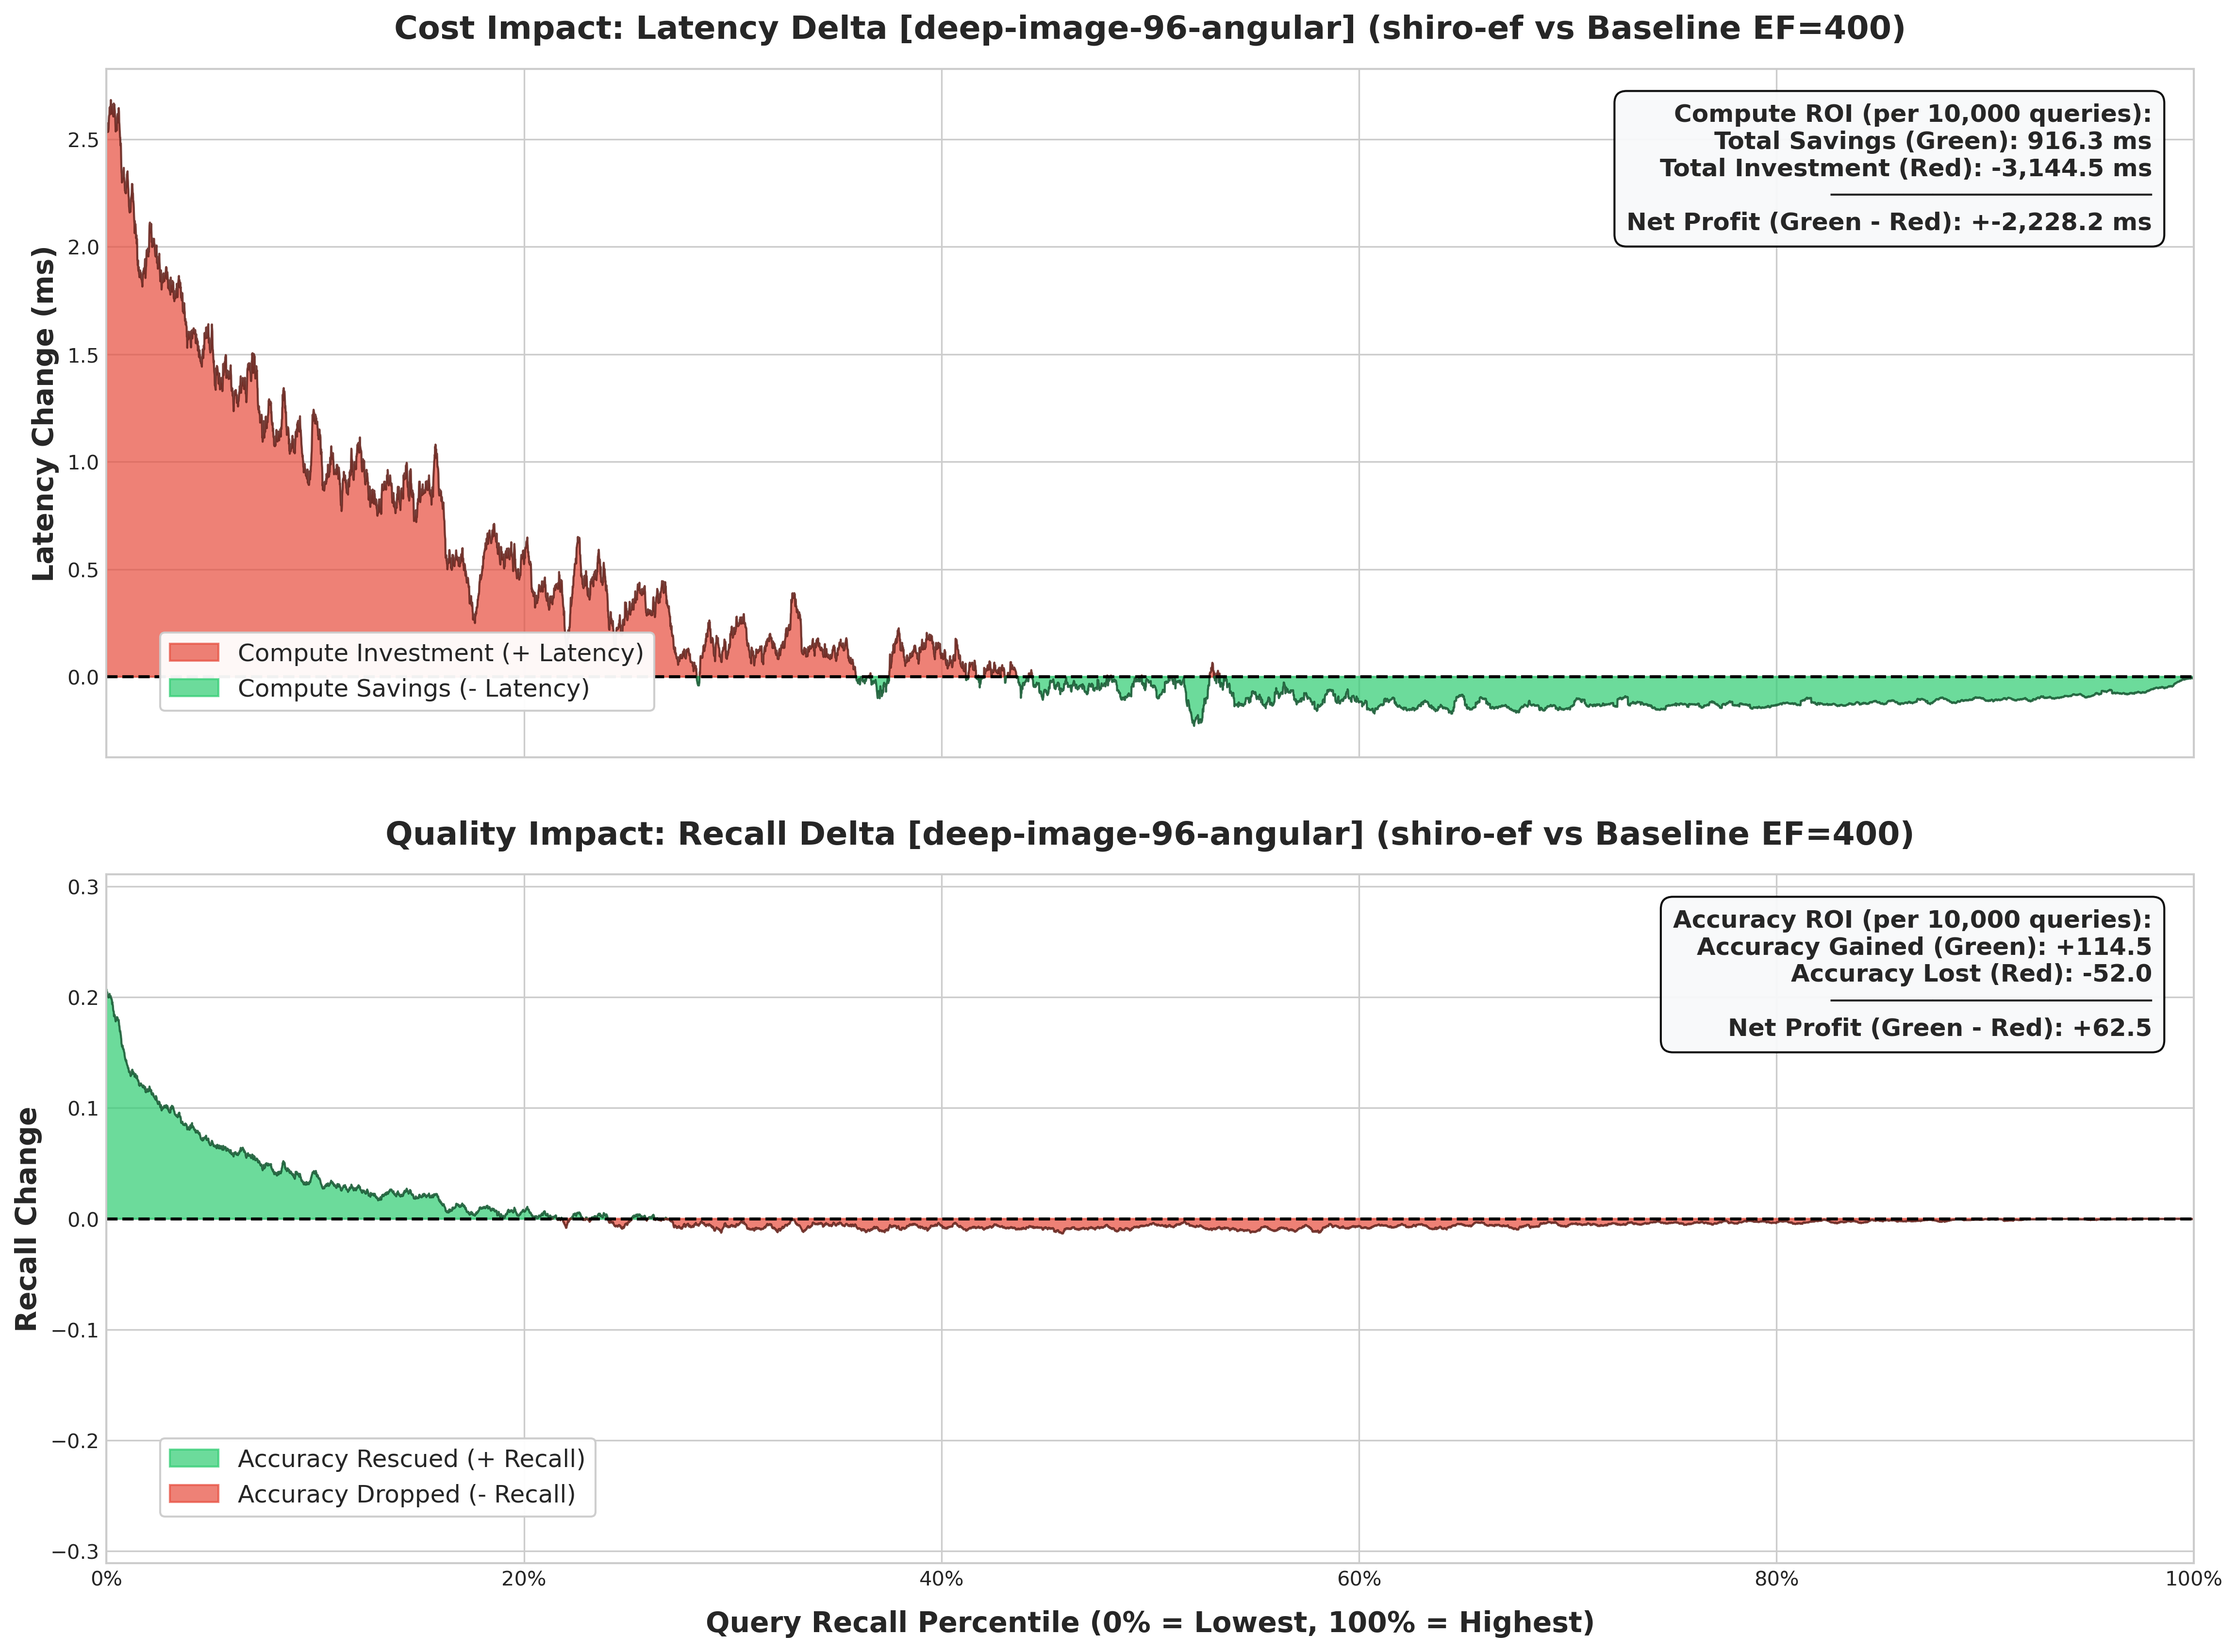
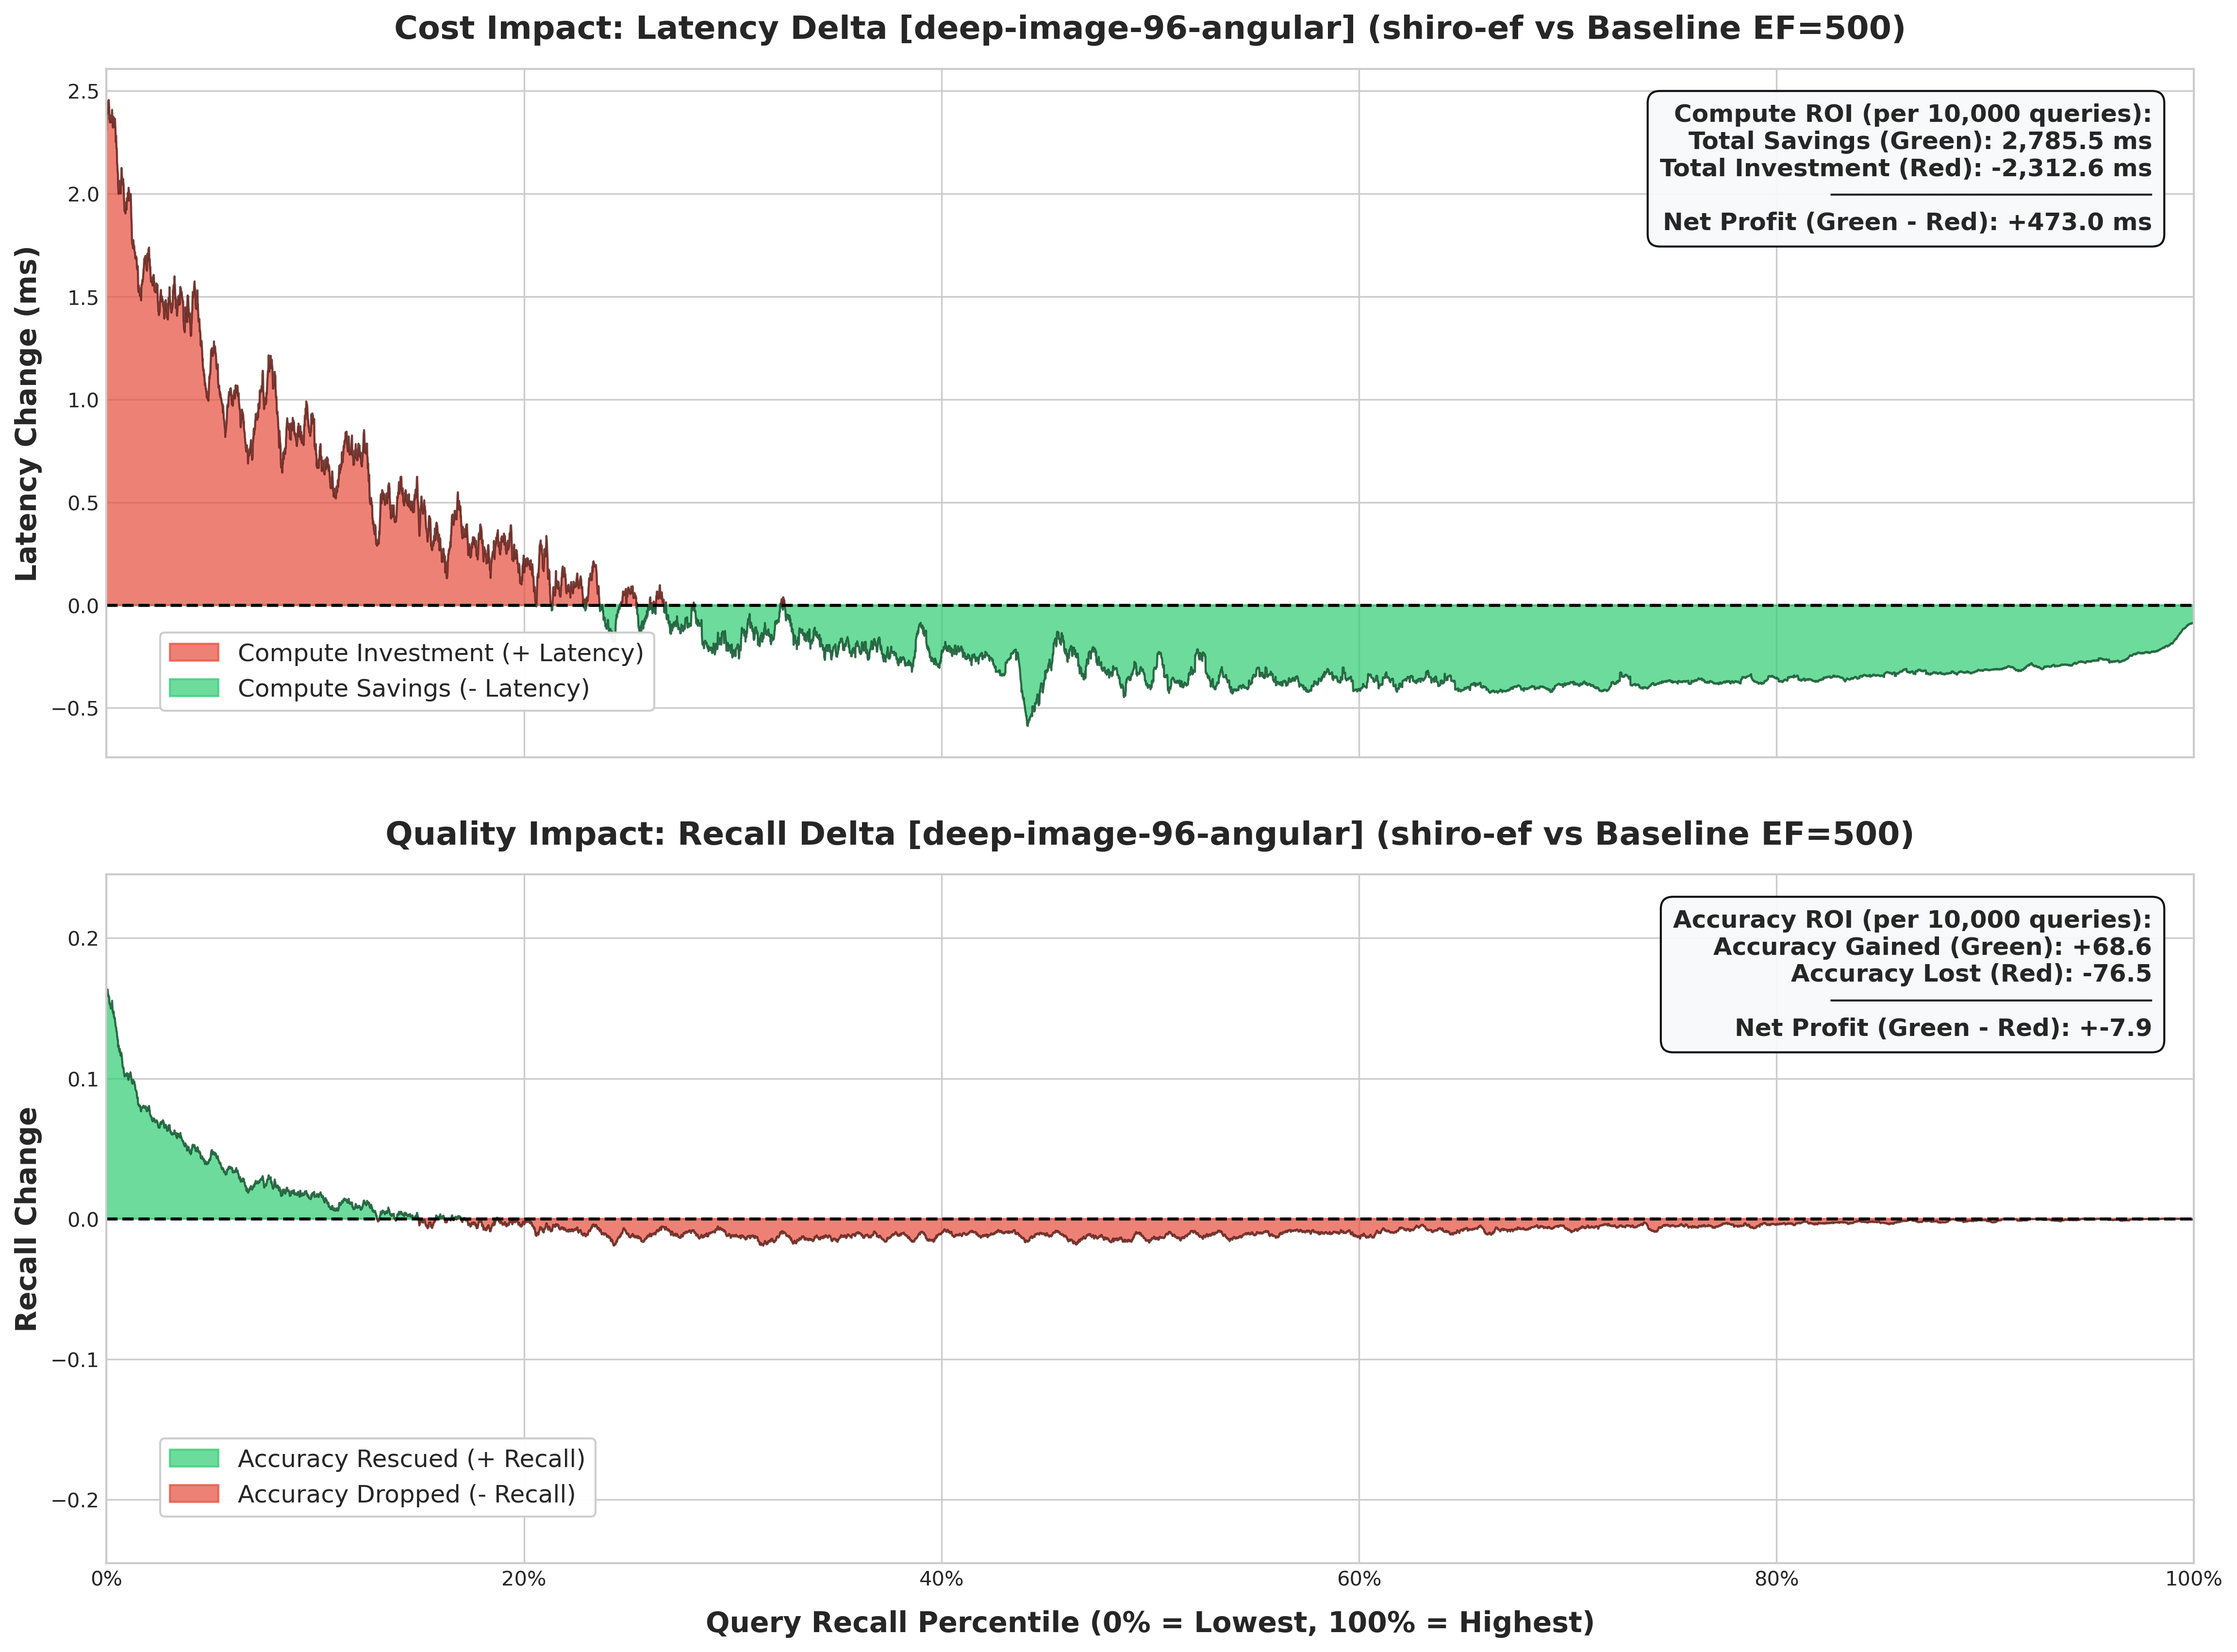
change get ef logic in script

diff --git a/research/plot_consistency_visuals.py b/research/plot_consistency_visuals.py
@@ -21,20 +21,17 @@ def create_consistency_plot(dataset_name, mine_csv, base_csv):
 
         base_df = ds_sum[ds_sum["method"] == "baseline"].copy()
         base_df["ef"] = pd.to_numeric(base_df["ef"])
-        valid_bases = base_df[base_df["avg_recall"] < adapt_rec]
-
-        if not valid_bases.empty:
-            best_ef = int(valid_bases["ef"].max())
-        else:
-            best_ef = int(base_df["ef"].min())
+        
+        # Find the baseline EF with the avg_recall closest to adapt_rec
+        base_df["recall_diff"] = (base_df["avg_recall"] - adapt_rec).abs()
+        best_ef = int(base_df.loc[base_df["recall_diff"].idxmin()]["ef"])
     else:
         adapt_rec = df_mine["Recall"].mean()
-        valid_efs = [
-            ef
-            for ef in df_base["EF"].unique()
-            if df_base[df_base["EF"] == ef]["Recall"].mean() < adapt_rec
-        ]
-        best_ef = int(max(valid_efs)) if valid_efs else int(df_base["EF"].min())
+        
+        # Find the baseline EF with the avg_recall closest to adapt_rec
+        unique_efs = df_base["EF"].unique()
+        ef_recalls = {ef: df_base[df_base["EF"] == ef]["Recall"].mean() for ef in unique_efs}
+        best_ef = int(min(ef_recalls, key=lambda ef: abs(ef_recalls[ef] - adapt_rec)))
 
     df_base_best = df_base[df_base["EF"] == best_ef].copy()
     df_merged = pd.merge(

diff --git a/research/plot_deltas.py b/research/plot_deltas.py
@@ -21,20 +21,17 @@ def create_delta_plot(dataset_name, mine_csv, base_csv):
 
         base_df = ds_sum[ds_sum["method"] == "baseline"].copy()
         base_df["ef"] = pd.to_numeric(base_df["ef"])
-        valid_bases = base_df[base_df["avg_recall"] < adapt_rec]
-
-        if not valid_bases.empty:
-            best_ef = int(valid_bases["ef"].max())
-        else:
-            best_ef = int(base_df["ef"].min())
+        
+        # Find the baseline EF with the avg_recall closest to adapt_rec
+        base_df["recall_diff"] = (base_df["avg_recall"] - adapt_rec).abs()
+        best_ef = int(base_df.loc[base_df["recall_diff"].idxmin()]["ef"])
     else:
         adapt_rec = df_mine["Recall"].mean()
-        valid_efs = [
-            ef
-            for ef in df_base["EF"].unique()
-            if df_base[df_base["EF"] == ef]["Recall"].mean() < adapt_rec
-        ]
-        best_ef = int(max(valid_efs)) if valid_efs else int(df_base["EF"].min())
+        
+        # Find the baseline EF with the avg_recall closest to adapt_rec
+        unique_efs = df_base["EF"].unique()
+        ef_recalls = {ef: df_base[df_base["EF"] == ef]["Recall"].mean() for ef in unique_efs}
+        best_ef = int(min(ef_recalls, key=lambda ef: abs(ef_recalls[ef] - adapt_rec)))
 
     df_base_best = df_base[df_base["EF"] == best_ef].copy()
     df_merged = pd.merge(
